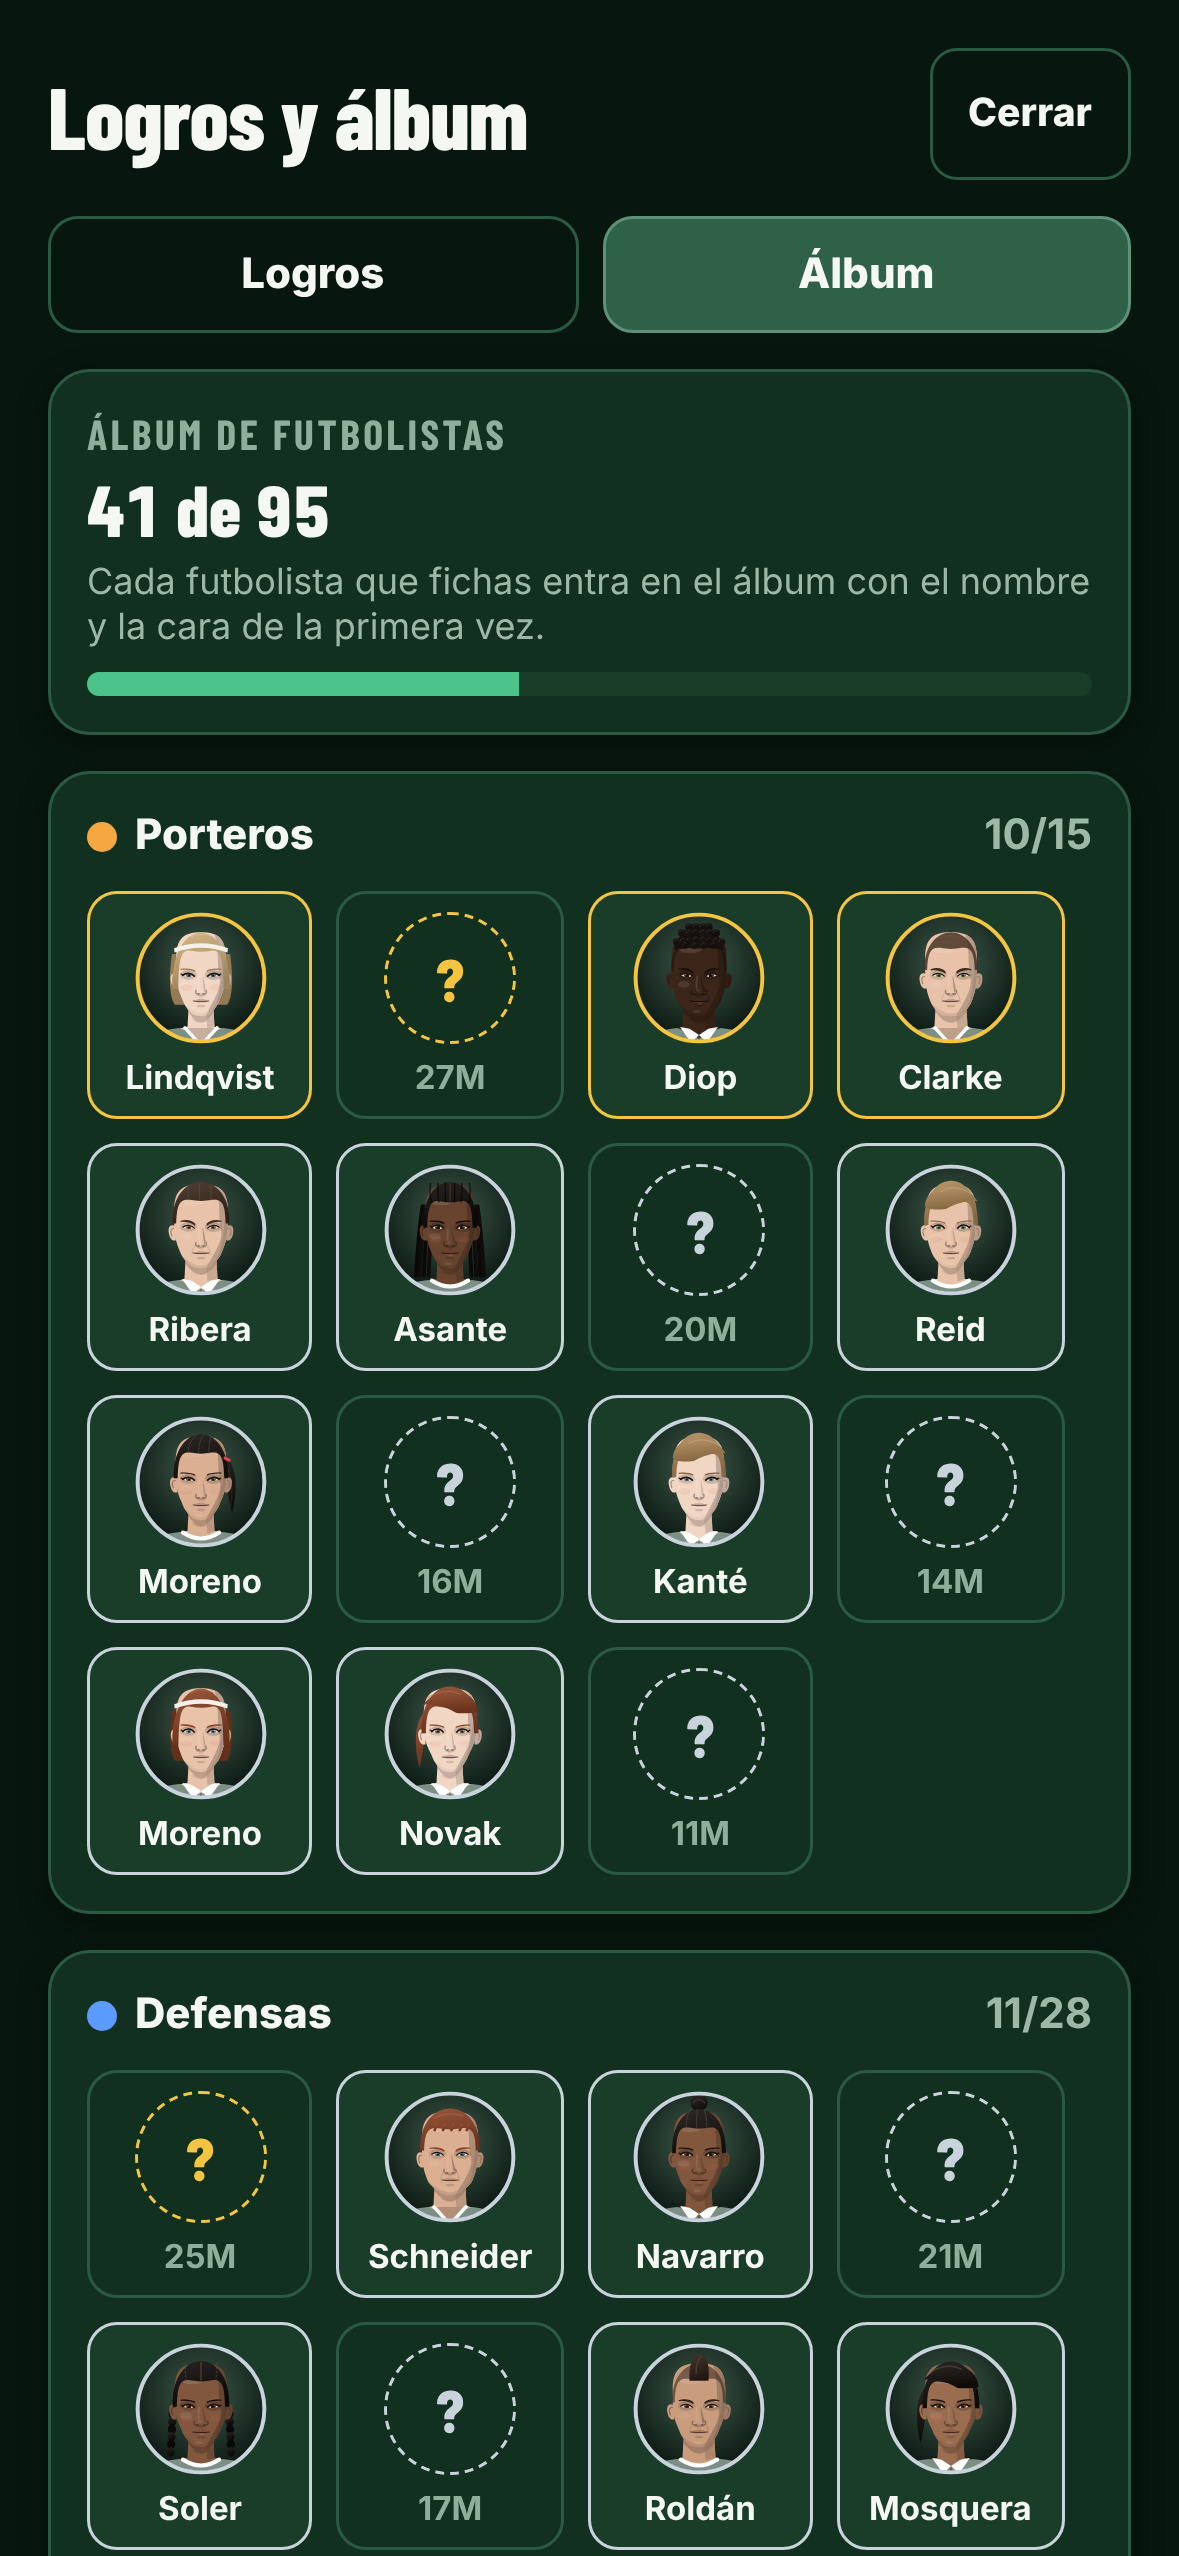
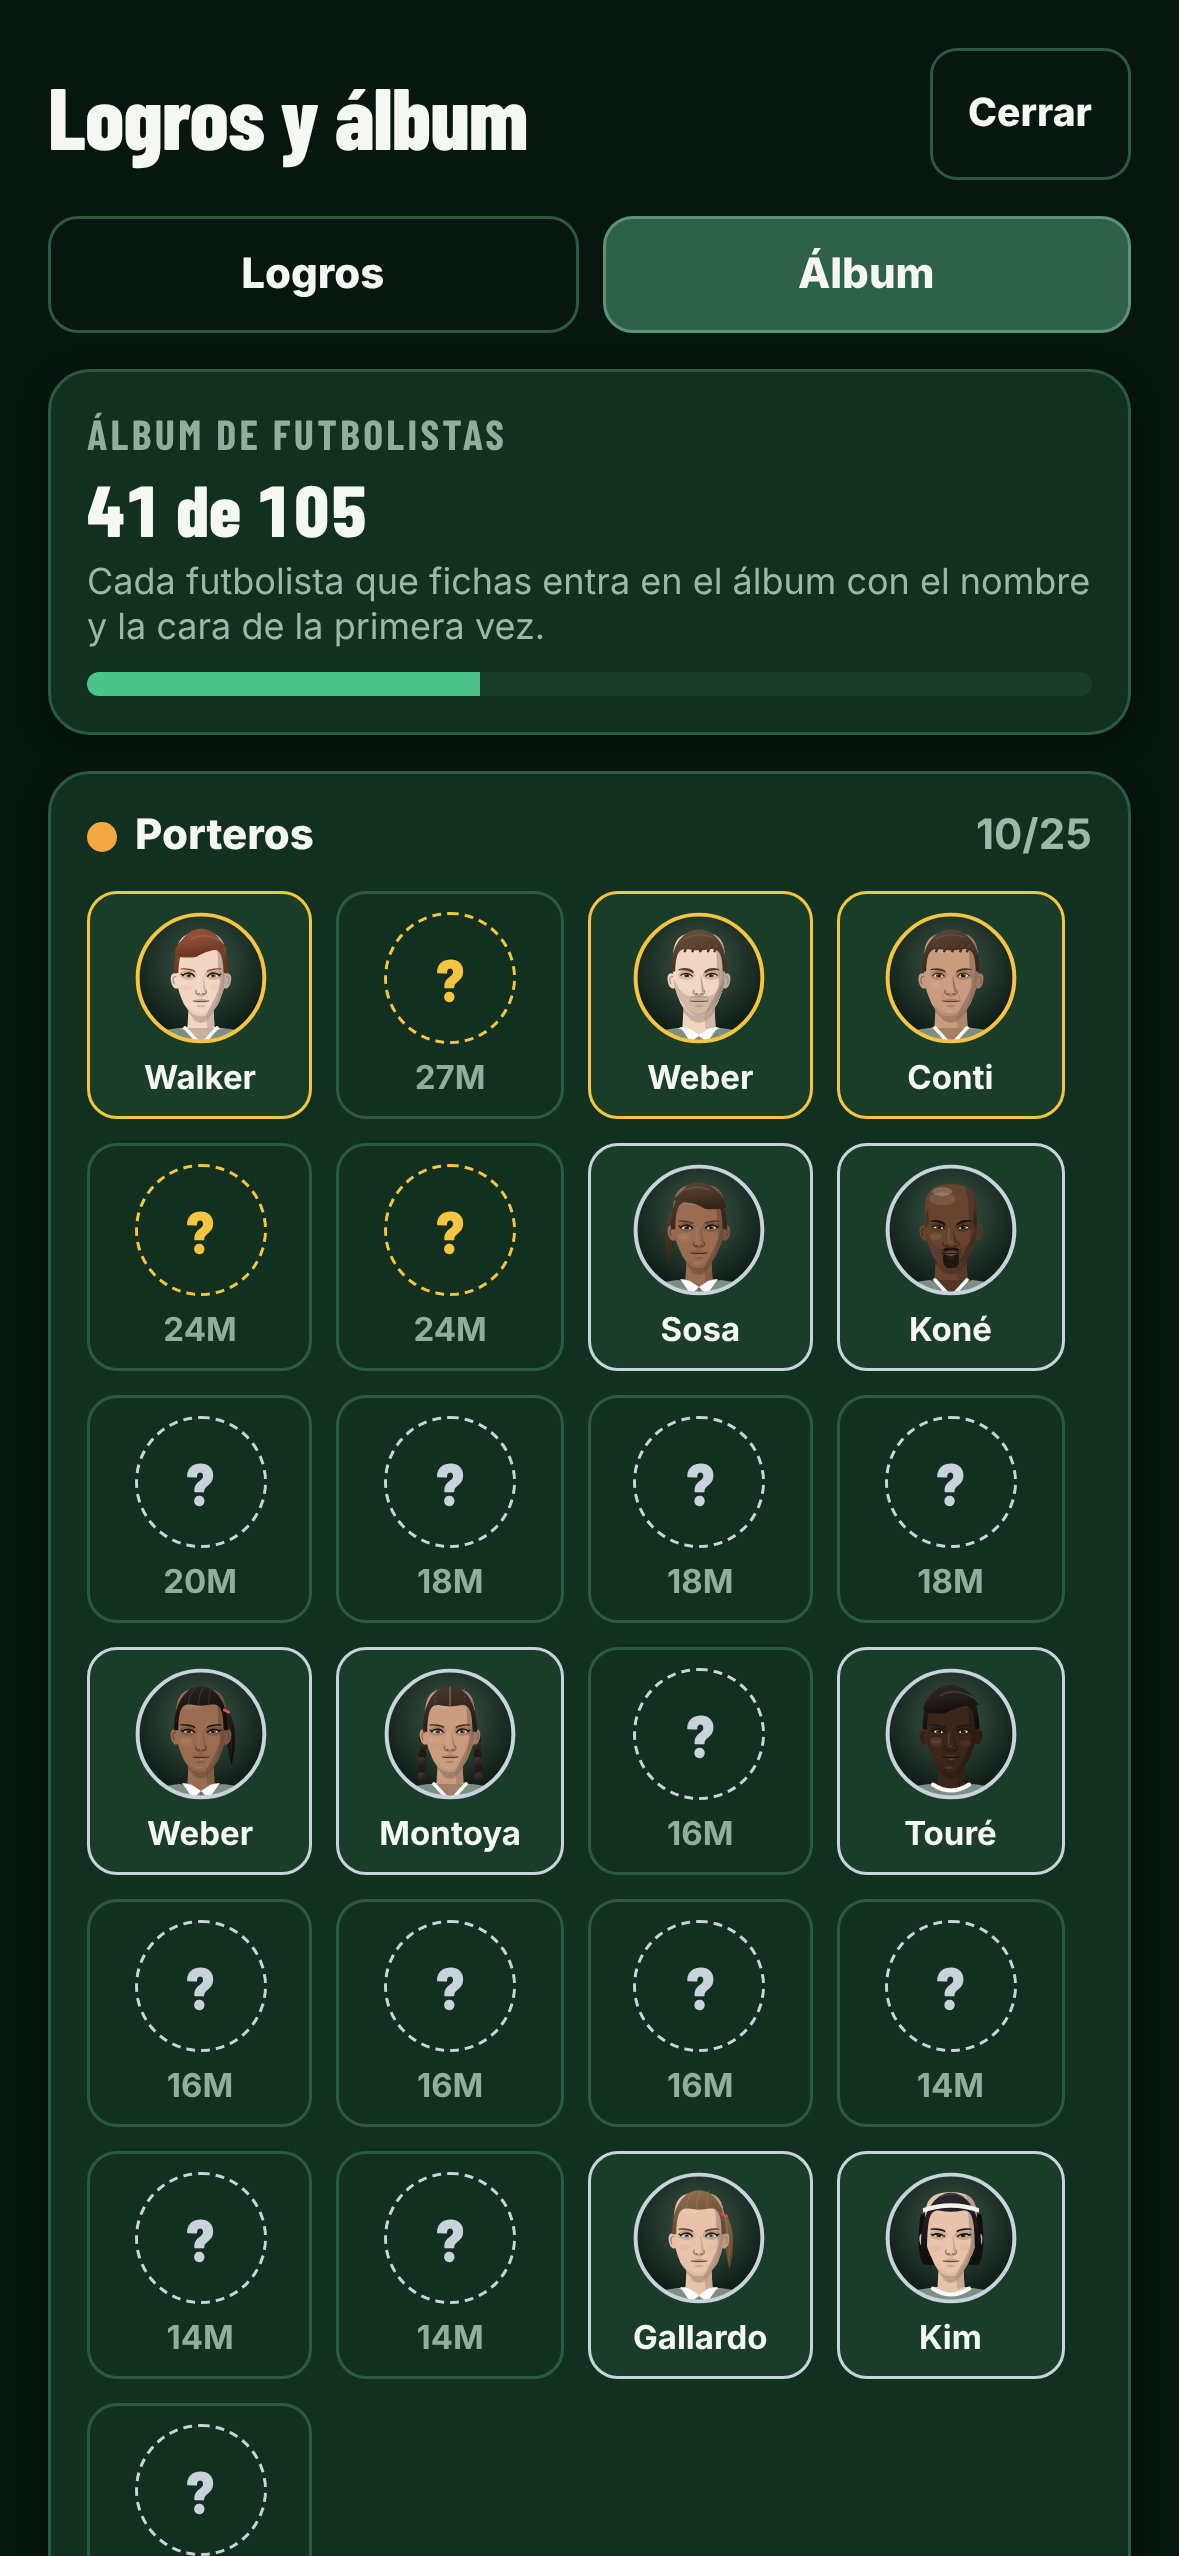
Capturas de la tienda al día y mayúscula en la salvada anónima
- store/capturas-1.0.1: partido, mercado (con el orden de turno), «Jugar aquí» (club arriba y
  amistoso), álbum (105) y elección de liga, rehechas con la versión actual.
- Crónica: «Alguien de la defensa de…» con mayúscula al abrir la frase.

Claude-Session: https://claude.ai/code/session_01YVGRZzFWfg4obcceYfZ8wu

diff --git a/src/ui/narrative.ts b/src/ui/narrative.ts
@@ -209,7 +209,9 @@ function tellTwists(state: GameState, roll: RollReport, viewer: number | null): 
     const att = roll.plays.find((pl) => pl.playerId === t.attacker);
     if (t.kind === 'salvada') {
       const hero = defenders(state, t.rival, roll.sum).backs[0] ?? defenders(state, t.rival, roll.sum).keeper;
-      const who = hero ? hero.name : someBack(state, name(t.rival));
+      const anon = someBack(state, name(t.rival));
+      // Abre la frase: con mayúscula aunque sea «alguien de la defensa…».
+      const who = hero ? hero.name : anon[0].toUpperCase() + anon.slice(1);
       return {
         kind: viewer === t.attacker ? 'stopped' : 'save',
         title: '¡Salvada in extremis!',

diff --git a/docs/APP_STORE.md b/docs/APP_STORE.md
@@ -99,9 +99,9 @@ App Store Connect acepta capturas de 6,1"/6,3" (1179 × 2556). En `store/captura
 1. `1-partido.png`: la crónica del partido con un gol.
 2. `2-convocatoria.png`: la convocatoria secreta de 5 titulares.
 3. `3-reparto.png`: el reparto de la jornada.
-4. `4-mercado.png`: el mercado, en una liga mixta.
-5. `5-jugar-aqui.png`: reto diario y modo carrera.
-6. `6-album.png`: el álbum de futbolistas.
+4. `4-mercado.png`: el mercado, con el orden de turno y dos porteras.
+5. `5-jugar-aqui.png`: tu club, reto diario, modo carrera y amistoso.
+6. `6-album.png`: el álbum de futbolistas (41 de 105).
 7. `7-elige-liga.png`: masculina, femenina o mixta.
 
 Las de la versión anterior siguen en `store/capturas-6.3/` (6,3") y `store/capturas/` (6,9"). Si App Store Connect te pide 6,9" (1320 × 2868), avísame y las saco en ese tamaño.
